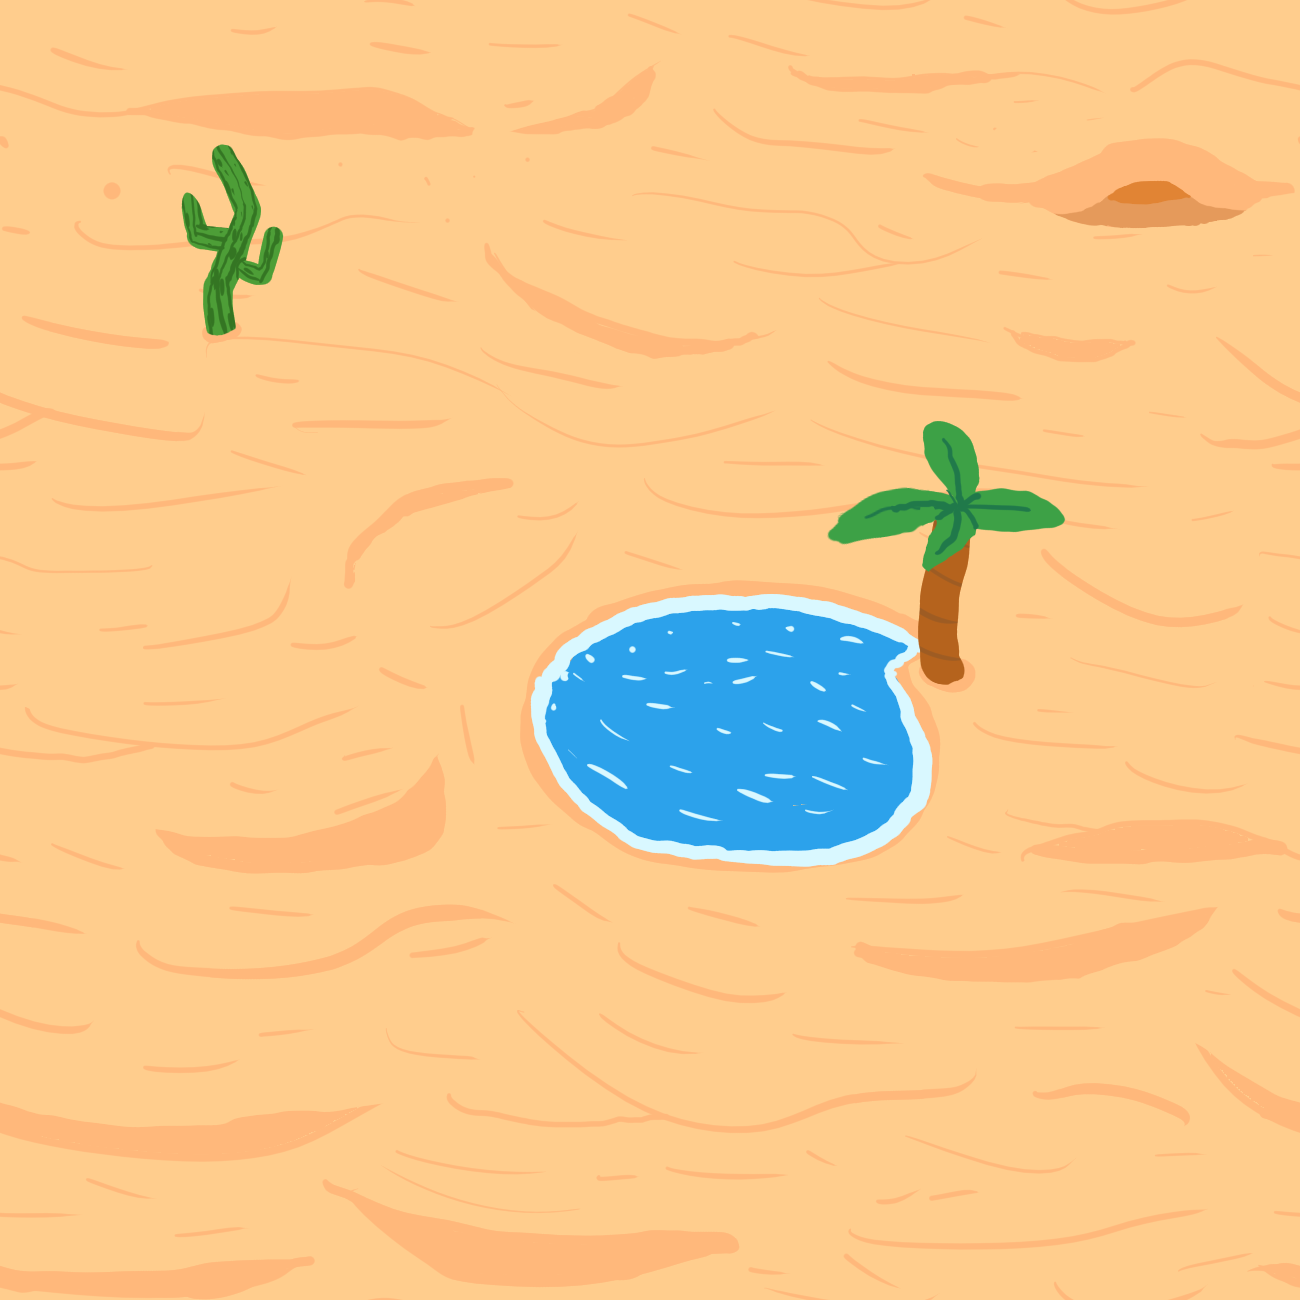
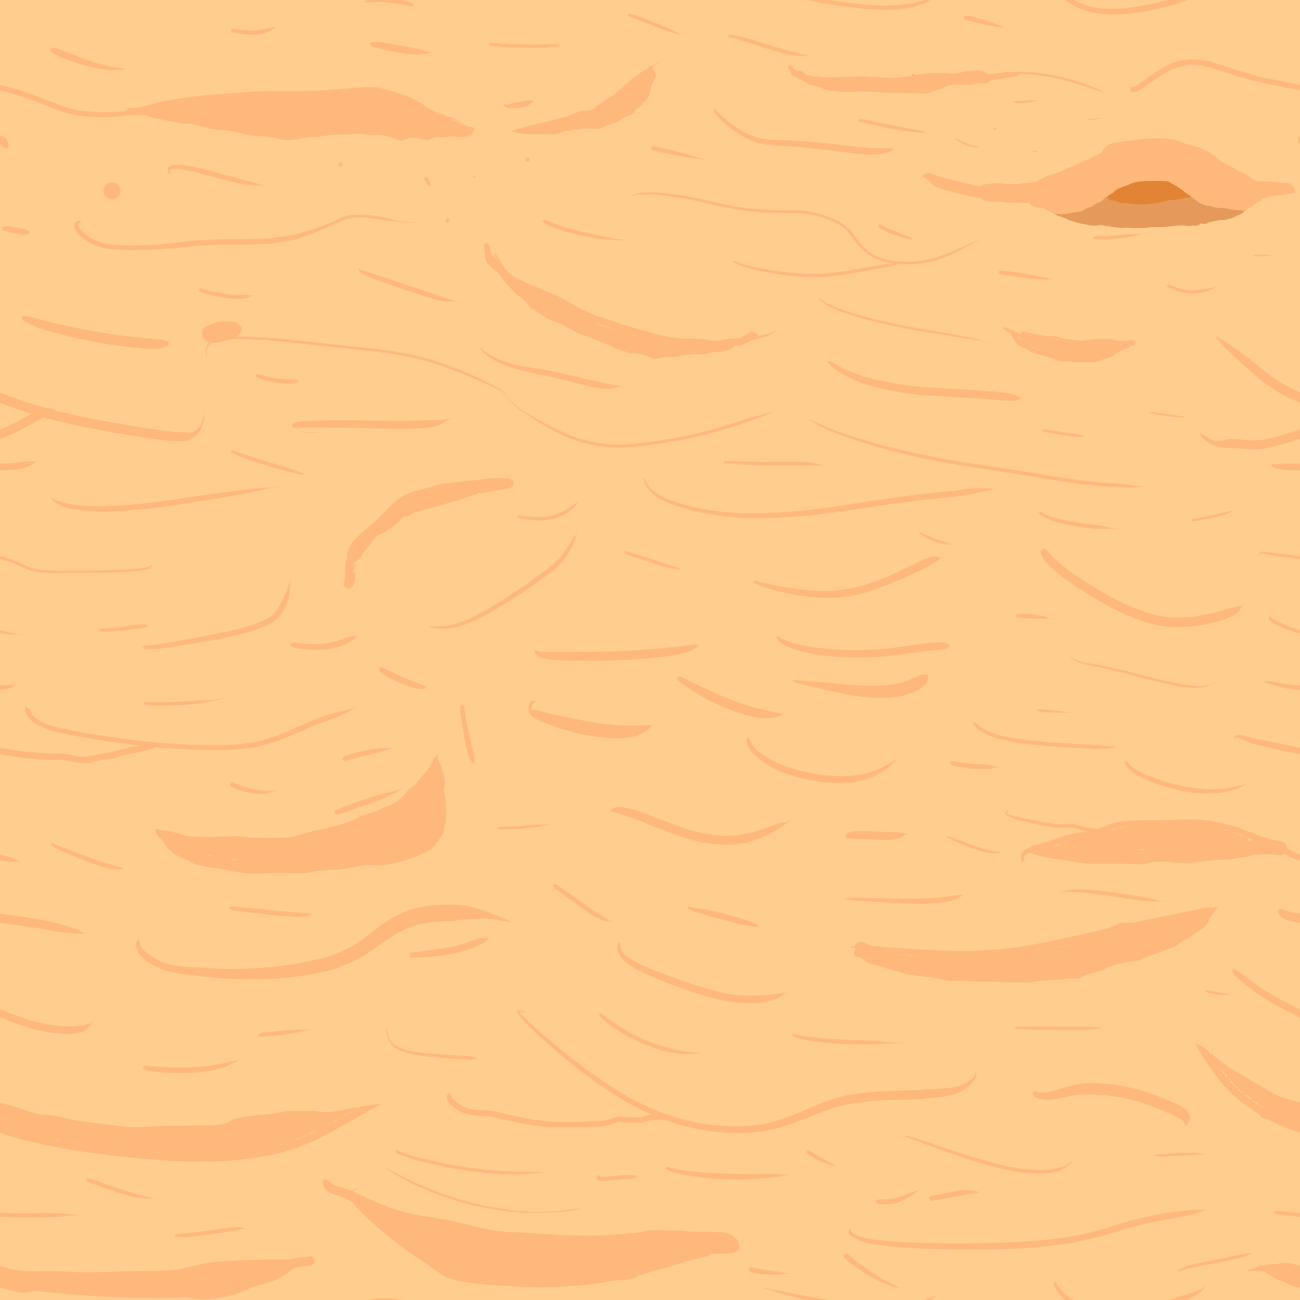
gameplay différent + background généré random

Changed region(s): [[0.4, 0.3077, 0.8308, 0.6769], [0.1231, 0.0923, 0.2154, 0.2769]]

diff --git a/src/entity/player.cpp b/src/entity/player.cpp
@@ -4,11 +4,13 @@
 #include <raylib.h>
 #include <raymath.h>
 #include <string>
+#include <iostream>
 #include <algorithm>
 
 Player::Player(GameState* game_state, float x, float y, Color color)
     : game_state(game_state), position({ x, y }), color(color), current_sprite(0),
-    invincibility_timer(0), direction(DOWN), frame_timer(0), flip_h(false) {
+    invincibility_timer(0), direction(DOWN), frame_timer(0), flip_h(false), shoot_timer(0.5),
+    aim_sprite(LoadTexture("assets/direction.png")), velocity({0,0}) {
     for (size_t i = 0; i < 7; i++) {
         Texture2D image = LoadTexture(("assets/crocoimages/image000" + std::to_string(i) + ".png").c_str());
         sprites.push_back(image);
@@ -17,6 +19,8 @@ Player::Player(GameState* game_state, float x, float y, Color color)
 
 void Player::update(float deltaTime) {
     invincibility_timer -= deltaTime;
+    shoot_timer -= deltaTime;
+
     Vector2 target_velocity = Vector2();
     if (IsKeyDown(KEY_RIGHT)) {
         target_velocity.x += 1;
@@ -55,13 +59,16 @@ void Player::update(float deltaTime) {
         flip_h = false;
     }
     // Shoot bullets
-    if (IsMouseButtonPressed(MOUSE_BUTTON_LEFT)){
+    if (Vector2LengthSqr(target_velocity) < 0.1 && shoot_timer < 0.0){
         Vector2 relative_mouse_position = Vector2({
             static_cast<float>(GetMouseX()-GetScreenWidth()/2.0),
             static_cast<float>(GetMouseY()-GetScreenHeight()/2.0),
         });
         Vector2 look_direction = Vector2Normalize(relative_mouse_position);
         ShootBullet(look_direction);
+        shoot_timer = 0.5;
+    }else if (Vector2LengthSqr(target_velocity) > 0.1){
+        shoot_timer = 0.5;
     }
 
     // Bullet management
@@ -105,18 +112,15 @@ void Player::draw() const {
     });
 
     Vector2 look_direction = Vector2Multiply(Vector2Normalize(relative_mouse_position), Vector2({64,64}));
-    // Draw aim
-    DrawRectangle(
-        look_direction.x+GetCenter().x-16,
-        look_direction.y+GetCenter().y-16,
-        32,
-        32,
-        WHITE
-    );
-
     for (auto* bullet : bullets) {
         bullet->draw();
     }
+
+    // Draw aim
+    DrawTexturePro(aim_sprite, {0,0,64,64}, 
+        {look_direction.x+GetCenter().x,
+        look_direction.y+GetCenter().y,64,64},
+        {32,32}, -Vector2Angle(look_direction, {0,-1})*180.0/3.1415926535, WHITE);
 }
 
 Vector2 Player::GetPosition() const {
@@ -125,6 +129,10 @@ Vector2 Player::GetPosition() const {
 
 Vector2 Player::GetCenter() const {
     return { position.x + stats.GetSize() / 2.0f, position.y + stats.GetSize() / 2.0f };
+}
+
+Vector2 Player::GetVelocity() const {
+    return velocity;
 }
 
 void Player::TakeDamage() {

diff --git a/src/scene/renderer.cpp b/src/scene/renderer.cpp
@@ -14,6 +14,16 @@ Renderer::Renderer(int width, int height): background(raylib::Texture2D("assets/
     camera.SetOffset({width / 2.0f, height / 2.0f});
     camera.SetZoom(1.0f);
 
+    background_elements.push_back(raylib::Texture2D("assets/cactus.png"));
+    background_elements.push_back(raylib::Texture2D("assets/lac.png"));
+    background_elements.push_back(raylib::Texture2D("assets/palmier.png"));
+    for (size_t i = 0; i < 50; i++) {
+        bgelem_positions.push_back({
+            (float)GetRandomValue(0, background.width*4),
+            (float)GetRandomValue(0, background.width*4),
+            GetRandomValue(0, background_elements.size()-1)
+        });
+    }
 
     add_menu(std::make_unique<FPSCounter>());
     add_menu(std::make_unique<PlayerMenu>());
@@ -70,6 +80,21 @@ void Renderer::draw(ImGui::Context& ctx, const GameState& game_state) {
                 startY + y * texH,
                 WHITE
             );
+        }
+    }
+
+    int startelemX = static_cast<int>(camLeft) - (static_cast<int>(camLeft) % (texW*4)) - (texW*4);
+    int startelemY = static_cast<int>(camTop) - (static_cast<int>(camTop) % (texH*4)) - (texH*4);
+
+    for (int y = 0; y < tilesY; y++) {
+        for (int x = 0; x < tilesX; x++) {
+            for (raylib::Vector3 bgelempos : bgelem_positions) {
+                background_elements[(int)bgelempos.z].Draw(
+                    startelemX + bgelempos.x + x * texW*4,
+                    startelemY + bgelempos.y + x * texW*4,
+                    WHITE
+                );
+            }
         }
     }
 

diff --git a/src/entity/player.hpp b/src/entity/player.hpp
@@ -26,6 +26,8 @@ private:
     bool flip_h;
     std::vector<PlayerBullet*> bullets;
     float invincibility_timer;
+    float shoot_timer;
+    Texture2D aim_sprite;
 
 public:
     Player(GameState* game_state, float x, float y, Color color = BLUE);
@@ -34,6 +36,7 @@ public:
     void draw() const override;
     Vector2 GetPosition() const;
     Vector2 GetCenter() const;
+    Vector2 GetVelocity() const;
 
     void TakeDamage();
     bool IsDead() const;

diff --git a/src/imgui/player_gui.hpp b/src/imgui/player_gui.hpp
@@ -47,6 +47,10 @@ public:
         #endif
         ImGui::PopID();
 
+        ImGui::PushID(15);
+        ImGui::Text("Velocity: (%.2f, %.2f)", player->GetVelocity().x, player->GetVelocity().y);
+        ImGui::PopID();
+
         ImGui::PushID(20);
         ImGui::Text("Health: %d", player->GetStats().GetLife());
         #ifdef DEBUG

diff --git a/src/scene/renderer.hpp b/src/scene/renderer.hpp
@@ -12,7 +12,8 @@ class Renderer
     raylib::Texture2D background;
     raylib::Camera2D camera;
     std::vector<std::unique_ptr<MenuBase>> menus;
-
+    std::vector<raylib::Texture2D> background_elements;
+    std::vector<raylib::Vector3> bgelem_positions;
 public:
     Renderer(int width, int height);
 

diff --git a/src/entity/player_bullet.cpp b/src/entity/player_bullet.cpp
@@ -13,7 +13,8 @@ PlayerBullet::PlayerBullet(GameState* game_state, float x, float y, float vx, fl
     position({x,y}),
     velocity({vx,vy}),
     hitbox_radius(hitbox_radius),
-    damage(damage)
+    damage(damage),
+    despawn(false)
 {}
 
 void PlayerBullet::update(float deltaTime){
